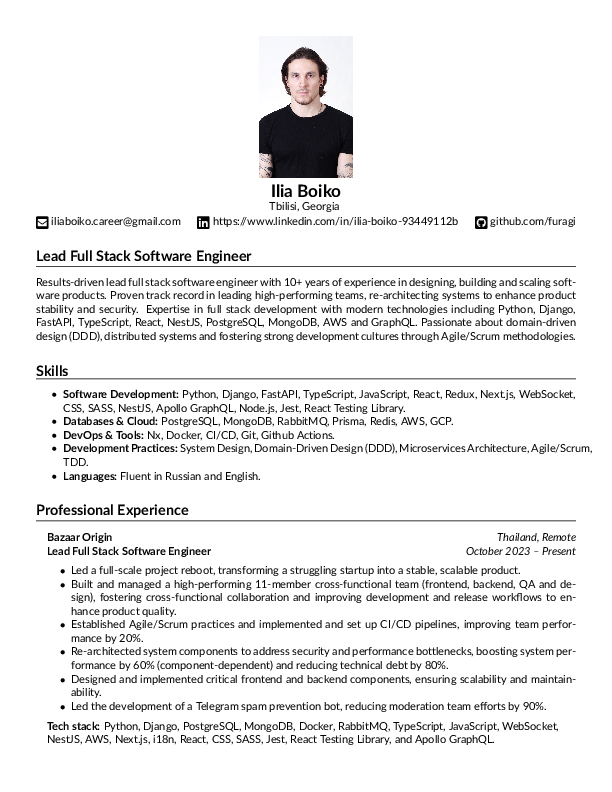
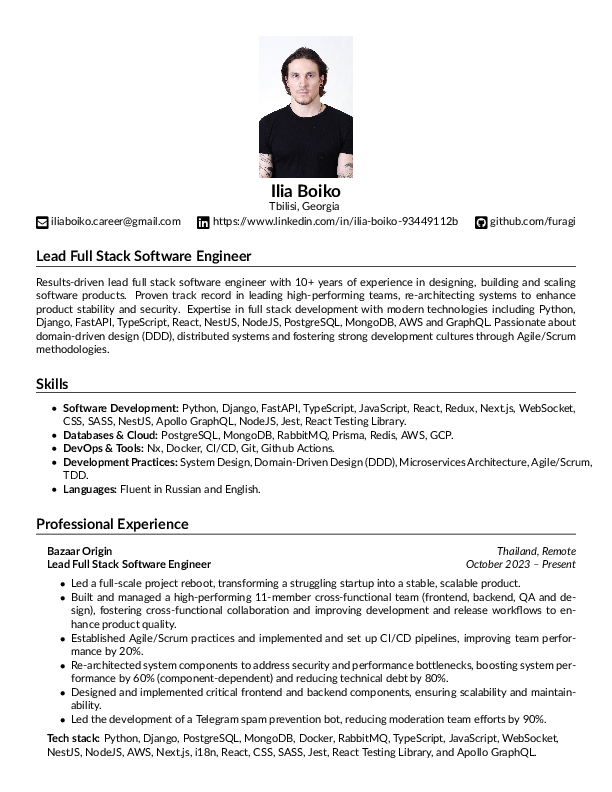
a couple of touch-ups

Changed region(s): [[0.0621, 0.3333, 0.9624, 0.9697]]

diff --git a/cv.tex b/cv.tex
@@ -67,7 +67,7 @@
 \vspace{-.5em}
 \hrule
 \vspace{1em}
-Results-driven lead full stack software engineer with 10+ years of experience in designing, building and scaling software products. Proven track record in leading high-performing teams, re-architecting systems to enhance product stability and security. Expertise in full stack development with modern technologies including Python, Django, FastAPI, TypeScript, React, NestJS, PostgreSQL, MongoDB, AWS and GraphQL. Passionate about domain-driven design (DDD), distributed systems and fostering strong development cultures through Agile/Scrum methodologies.
+Results-driven lead full stack software engineer with 10+ years of experience in designing, building and scaling software products. Proven track record in leading high-performing teams, re-architecting systems to enhance product stability and security. Expertise in full stack development with modern technologies including Python, Django, FastAPI, TypeScript, React, NestJS, NodeJS, PostgreSQL, MongoDB, AWS and GraphQL. Passionate about domain-driven design (DDD), distributed systems and fostering strong development cultures through Agile/Scrum methodologies.
 
 %====================================== Skills ======================================
 \subsection*{\Large Skills}
